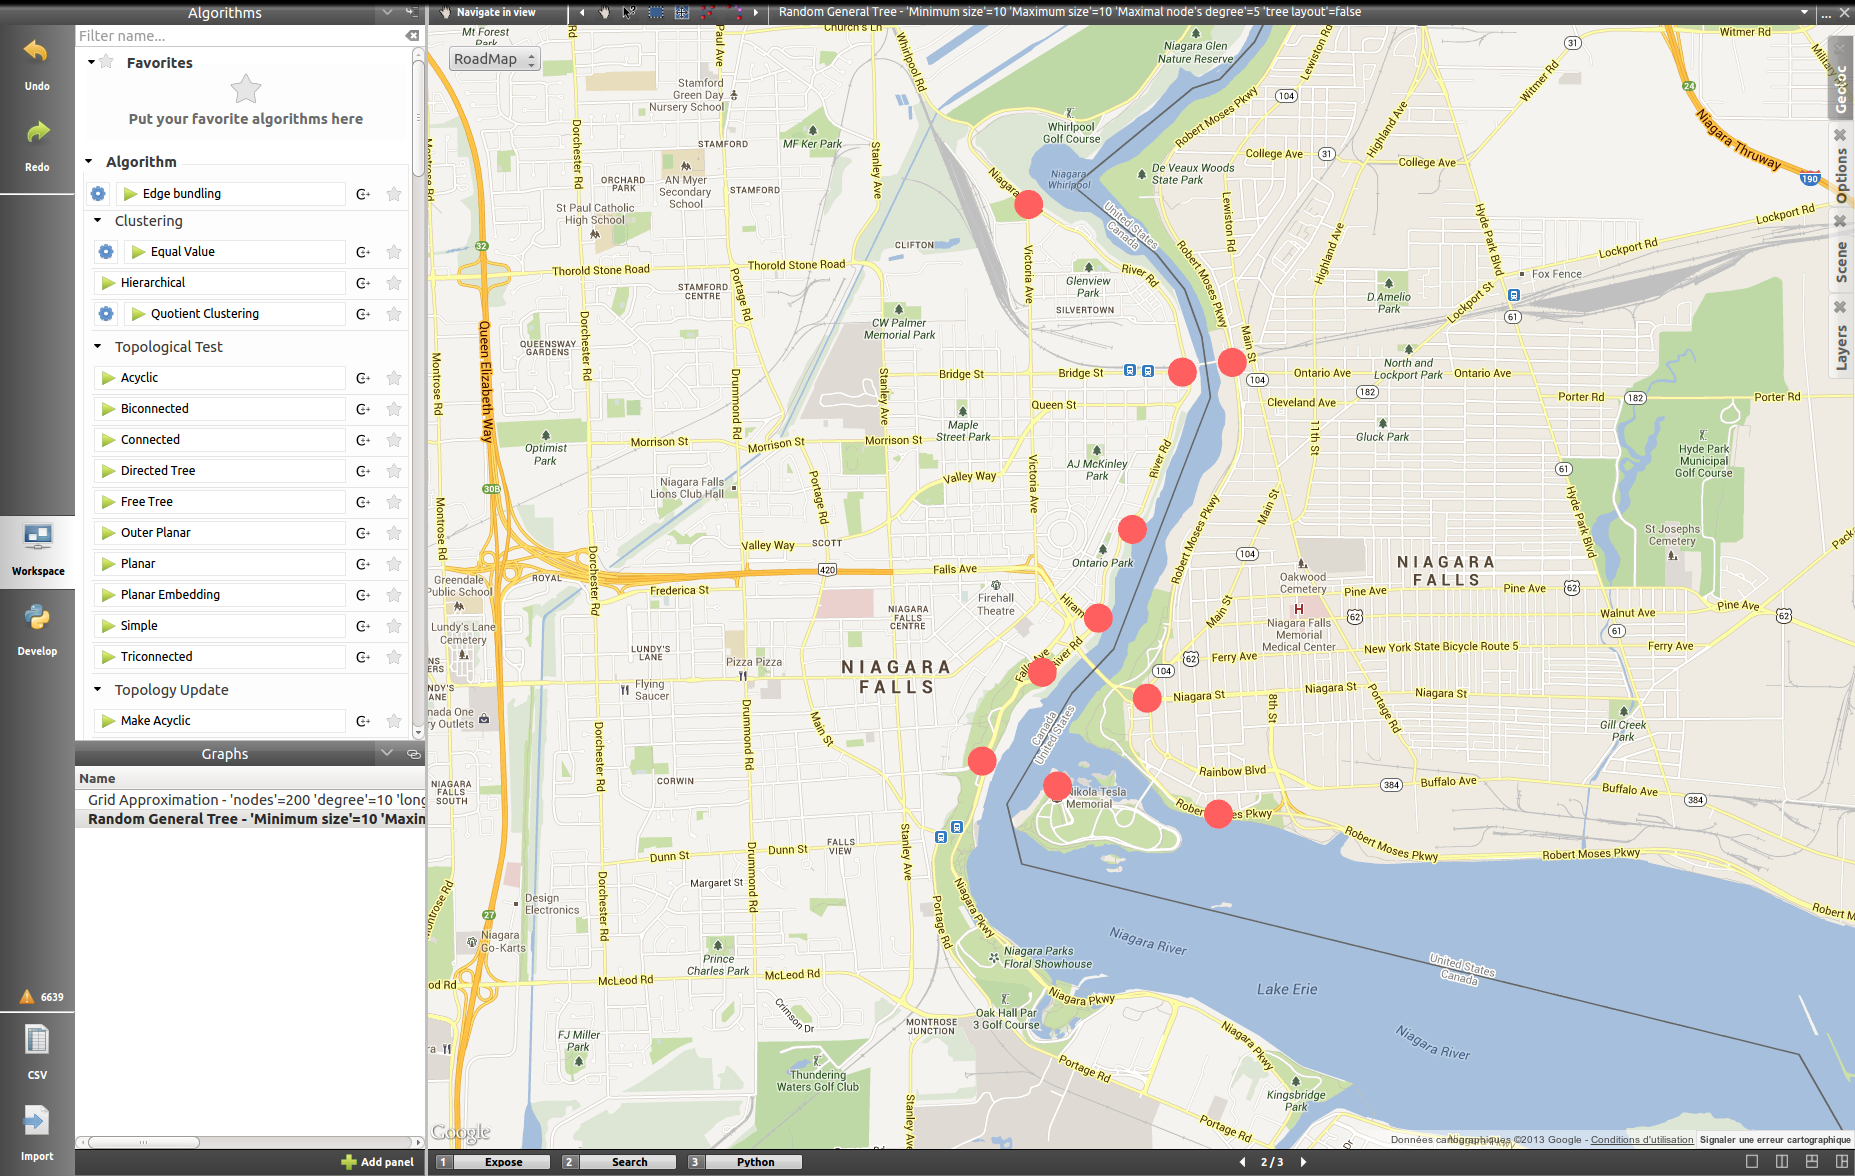
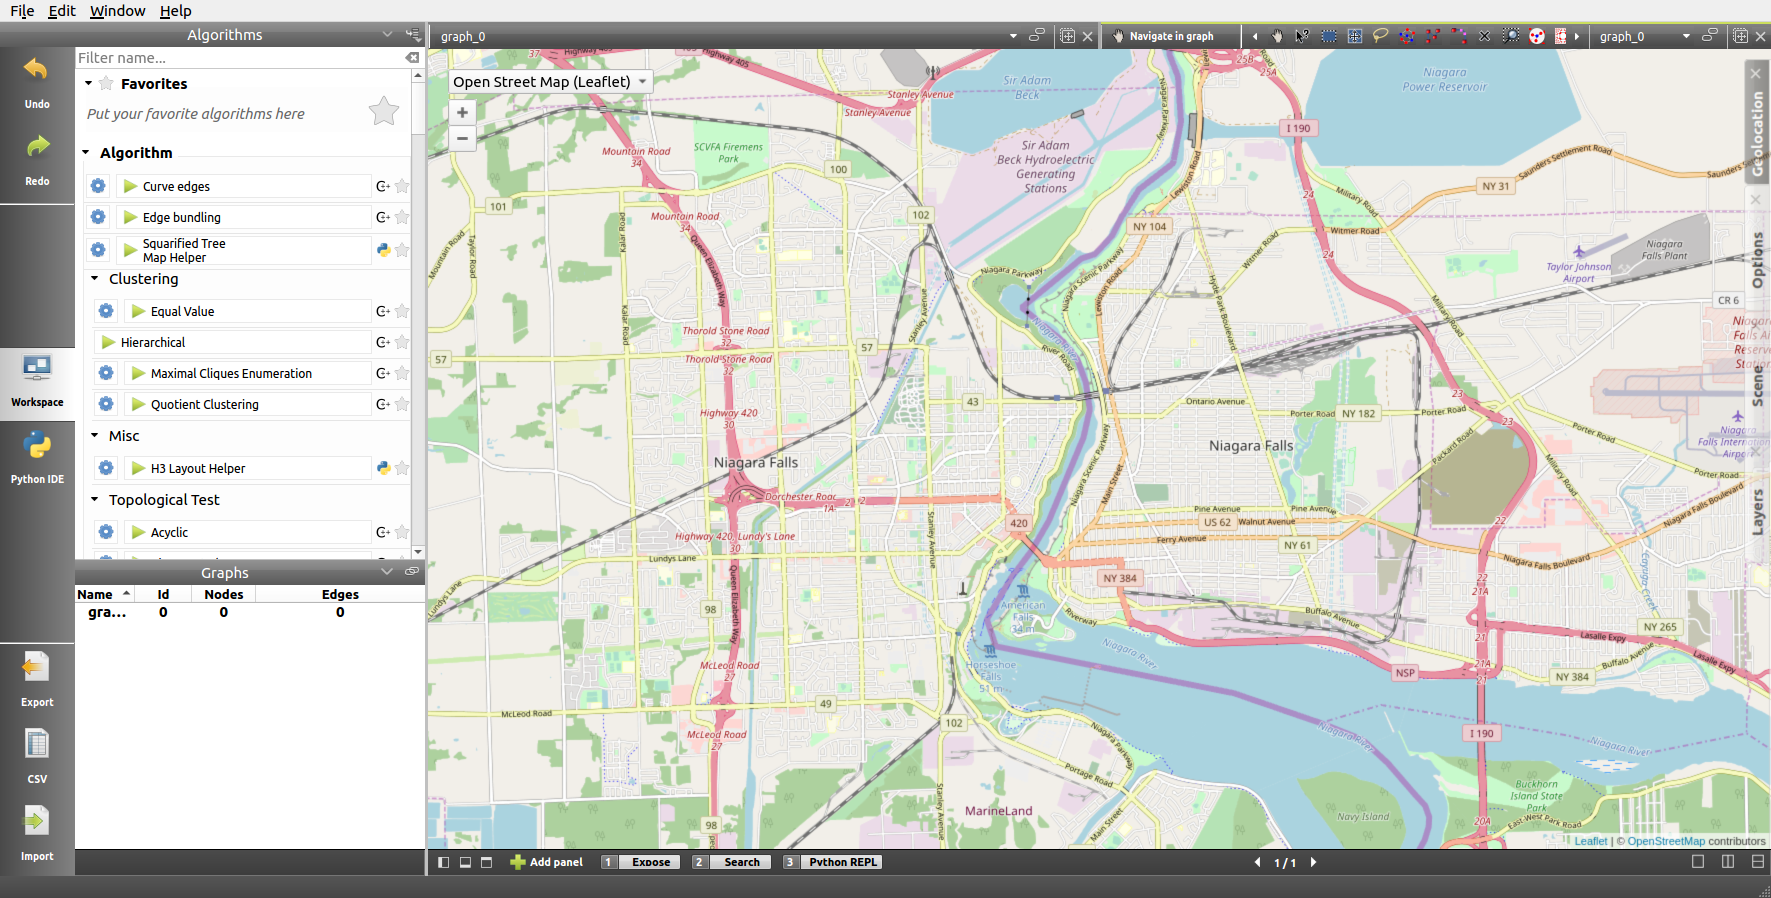
doc updates for subgraph hulls and new implementation of Geographic view

diff --git a/doc/user/workspace.rst b/doc/user/workspace.rst
@@ -364,7 +364,7 @@ The layers settings can be accessed by clicking on the **Layers** tab. The follo
 
 .. image:: _images/i_workspace_layers.png
 
-The first column, *Visible*, allows you to select the elements you want to display in the graph. The second column, *Stencil*, gives you another level of visibility by setting the objects on the foreground. 
+The **Visible** column allows you to select the elements you want to display. The **Stencil** column gives you another level of visibility by setting the objects in the front of the display. If the **Visible** check box on the *Hulls* row is checked, the convex hulls of the current graph and its descendant subgraphs are computed and can then be shown/hidden using their corresponding **Visible** check boxes.
 
 
 .. _workspace_diagram_faq:
@@ -381,7 +381,7 @@ The Node-Link Diagram being one of the mostly used view, it is also the one we a
   Because we want to allow people working with large graphs to use Tulip too, displaying each and every label is a poor choice.
   The rendering becomes demanding and the visibility is not really at its best. 
   By default, the density of labels displayed is set in order to forbid any overlap. 
-  This options can be customized in the Scene Rendering Settings (see :ref:`workspace_diagram_scene`).
+  This option can be customized in the Scene Rendering Settings (see :ref:`workspace_diagram_scene`).
 
 
 * *The size of the labels is not adapted. Even when I try to augment it for each node, nothing happens; what should I do?*
@@ -555,22 +555,22 @@ Map modes
 
 The geographic view provides six differents map modes. You can switch between them by clicking on the button in the top left corner. Test them in order to customize the visualization background to your need.
 
-* Roadmap:
+* Open Stree Map:
 
 .. image:: _images/i_geographic_main_roadmap.png
     :width: 400
 
-* Satellite:
+* Esri Satellite:
 
 .. image:: _images/i_geographic_main_satellite.png
     :width: 400
 
-* Terrain:
+* Esri Terrain:
 
 .. image:: _images/i_geographic_main_terrain.png
     :width: 400
 
-* Hybrid: 
+* Esri Gray Canvas:
 
 .. image:: _images/i_geographic_main_hybrid.png
     :width: 400
@@ -615,11 +615,9 @@ Geolocation
 
 .. image:: _images/i_geographic_geoloc.png
 
-A geolocation tool has been embedded in the view, exploiting the Google Maps web service. It can appropriatly place the nodes on the map.
+A geolocation tool has been embedded in the view, exploiting the `Nominatim <https://nominatim.openstreetmap.org/>`_ geocoding service. It can appropriatly place the nodes on the map.
 
 You can choose among two methods to place the elements, either by providing a valid address for each node, stored in a property you will select, or by using the already computed latitude and longitude values, each contained in their respective properties.
-
-The previous Europe map snapshots, for example, have been build in such a way, by giving to each node a city name.
 
 Once the service is being queried, you will have to specify the corresponding town/address for the ambiguous choices. You can choose to keep the result values obtained in latitude/longitude properties to ease a possible next use of your data.
 
